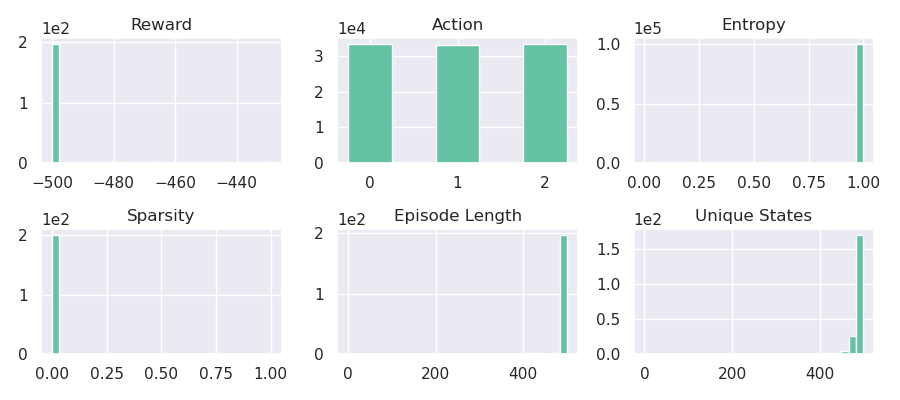
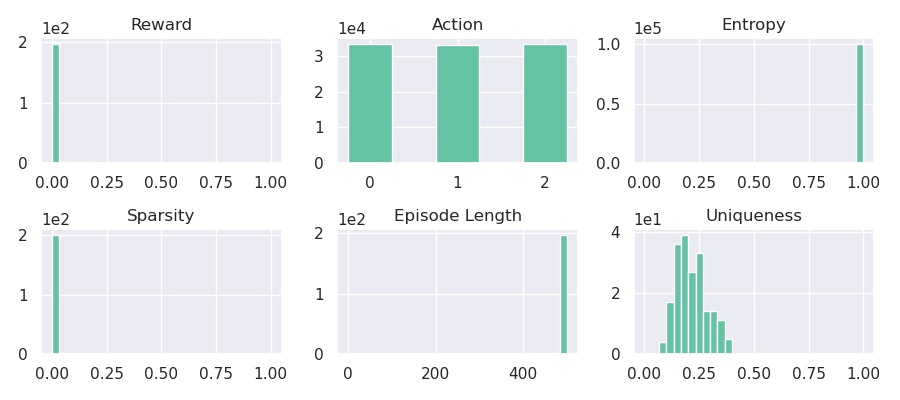
updated metrics

diff --git a/results/ds_eval/MiniGrid-SimpleCrossingS9N1-v0.tex b/results/ds_eval/MiniGrid-SimpleCrossingS9N1-v0.tex
@@ -1,14 +1,15 @@
 \begin{table}[h]
 \centering
 \begin{tabular}{l|ccc}
-Metric  \hspace{8pt} \symbol{92} \hspace{8pt} Buffer Type & Experience Replay & Fully Trained Behavioral & Random Policy \\ \hline 
+Metric  \hspace{8pt} \symbol{92} \hspace{8pt} Buffer Type & Experience Replay & Final Policy & Random Policy \\ \hline 
 Reward & $0.40 \pm 0.38$ & $0.14 \pm 0.34$ & $0.10 \pm 0.22$\\ 
-Reward (Normalized) & $0.40 \pm 0.38$ & $0.14 \pm 0.34$ & $0.10 \pm 0.22$\\ 
+Reward (Normalized) & $0.42 \pm 0.40$ & $0.14 \pm 0.35$ & $0.10 \pm 0.23$\\ 
 Entropy (Normalized) & $0.91 \pm 0.13$ & $0.01 \pm 0.04$ & $1.00 \pm 0.00$\\ 
 Episode Length & $201.19 \pm 122.09$ & $279.21 \pm 108.65$ & $295.75 \pm 66.33$\\ 
 Sparsity & $0.99 \pm 0.02$ & $0.99 \pm 0.02$ & $1.00 \pm 0.00$\\ 
-Unique States / Episode & $32.51 \pm 14.68$ & $8.82 \pm 4.67$ & $61.28 \pm 20.23$\\ 
-Unique States & $0.0151$ & $0.0025$ & $0.0175$\\ 
+Unique States / Episode & $19.13 \pm 6.93$ & $7.18 \pm 4.07$ & $29.40 \pm 9.84$\\ 
+Uniqueness & $0.20 \pm 0.21$ & $0.14 \pm 0.30$ & $0.11 \pm 0.06$\\ 
+Unique States & $0.00111$ & $0.00059$ & $0.00132$\\ 
 \end{tabular}
 \caption{Dataset evaluation metrics for all buffer types of environment 'MiniGrid-SimpleCrossingS9N1-v0'.}
 \label{tab:ds_eval_simple}

diff --git a/results/ds_eval/Acrobot-v1.tex b/results/ds_eval/Acrobot-v1.tex
@@ -1,14 +1,15 @@
 \begin{table}[h]
 \centering
 \begin{tabular}{l|ccc}
-Metric  \hspace{8pt} \symbol{92} \hspace{8pt} Buffer Type & Experience Replay & Fully Trained Behavioral & Random Policy \\ \hline 
+Metric  \hspace{8pt} \symbol{92} \hspace{8pt} Buffer Type & Experience Replay & Final Policy & Random Policy \\ \hline 
 Reward & $-93.17 \pm 35.83$ & $-81.84 \pm 14.10$ & $-499.37 \pm 5.73$\\ 
-Reward (Normalized) & $0.97 \pm 0.09$ & $1.00 \pm 0.03$ & $0.00 \pm 0.01$\\ 
+Reward (Normalized) & $0.96 \pm 0.08$ & $0.98 \pm 0.03$ & $0.00 \pm 0.01$\\ 
 Entropy (Normalized) & $0.51 \pm 0.26$ & $0.12 \pm 0.22$ & $1.00 \pm 0.00$\\ 
 Episode Length & $94.17 \pm 35.81$ & $82.84 \pm 14.10$ & $499.38 \pm 5.62$\\ 
 Sparsity & $0.01 \pm 0.00$ & $0.01 \pm 0.00$ & $0.00 \pm 0.00$\\ 
-Unique States / Episode & $93.32 \pm 31.61$ & $82.81 \pm 14.01$ & $490.81 \pm 8.88$\\ 
-Unique States & $0.4254$ & $0.1554$ & $0.6305$\\ 
+Unique States / Episode & $47.65 \pm 9.17$ & $46.17 \pm 7.15$ & $107.22 \pm 35.38$\\ 
+Uniqueness & $0.52 \pm 0.06$ & $0.56 \pm 0.05$ & $0.21 \pm 0.07$\\ 
+Unique States & $0.01025$ & $0.00405$ & $0.01035$\\ 
 \end{tabular}
 \caption{Dataset evaluation metrics for all buffer types of environment 'Acrobot-v1'.}
 \label{tab:ds_eval_acrobot}

diff --git a/results/ds_eval/MiniGrid-LavaGapS6-v0.tex b/results/ds_eval/MiniGrid-LavaGapS6-v0.tex
@@ -1,14 +1,15 @@
 \begin{table}[h]
 \centering
 \begin{tabular}{l|ccc}
-Metric  \hspace{8pt} \symbol{92} \hspace{8pt} Buffer Type & Experience Replay & Fully Trained Behavioral & Random Policy \\ \hline 
+Metric  \hspace{8pt} \symbol{92} \hspace{8pt} Buffer Type & Experience Replay & Final Policy & Random Policy \\ \hline 
 Reward & $0.63 \pm 0.41$ & $0.71 \pm 0.41$ & $0.04 \pm 0.16$\\ 
-Reward (Normalized) & $0.63 \pm 0.41$ & $0.71 \pm 0.41$ & $0.04 \pm 0.16$\\ 
+Reward (Normalized) & $0.67 \pm 0.43$ & $0.75 \pm 0.43$ & $0.04 \pm 0.17$\\ 
 Entropy (Normalized) & $0.86 \pm 0.13$ & $0.00 \pm 0.00$ & $1.00 \pm 0.00$\\ 
 Episode Length & $50.71 \pm 57.17$ & $41.95 \pm 58.87$ & $27.41 \pm 29.82$\\ 
 Sparsity & $0.93 \pm 0.06$ & $0.91 \pm 0.06$ & $1.00 \pm 0.01$\\ 
-Unique States / Episode & $11.13 \pm 5.01$ & $7.22 \pm 1.52$ & $10.12 \pm 7.88$\\ 
-Unique States & $0.0024$ & $0.0005$ & $0.0026$\\ 
+Unique States / Episode & $9.99 \pm 3.55$ & $7.13 \pm 1.52$ & $8.48 \pm 6.00$\\ 
+Uniqueness & $0.59 \pm 0.39$ & $0.75 \pm 0.41$ & $0.55 \pm 0.30$\\ 
+Unique States & $0.00055$ & $0.00028$ & $0.00057$\\ 
 \end{tabular}
 \caption{Dataset evaluation metrics for all buffer types of environment 'MiniGrid-LavaGapS6-v0'.}
 \label{tab:ds_eval_lava}

diff --git a/results/ds_eval/CartPole-v1.tex b/results/ds_eval/CartPole-v1.tex
@@ -1,14 +1,15 @@
 \begin{table}[h]
 \centering
 \begin{tabular}{l|ccc}
-Metric  \hspace{8pt} \symbol{92} \hspace{8pt} Buffer Type & Experience Replay & Fully Trained Behavioral & Random Policy \\ \hline 
+Metric  \hspace{8pt} \symbol{92} \hspace{8pt} Buffer Type & Experience Replay & Final Policy & Random Policy \\ \hline 
 Reward & $366.02 \pm 162.39$ & $295.53 \pm 12.39$ & $22.04 \pm 11.60$\\ 
 Reward (Normalized) & $0.73 \pm 0.32$ & $0.59 \pm 0.02$ & $0.04 \pm 0.02$\\ 
 Entropy (Normalized) & $0.77 \pm 0.24$ & $0.30 \pm 0.37$ & $1.00 \pm 0.00$\\ 
 Episode Length & $366.02 \pm 162.39$ & $295.53 \pm 12.39$ & $22.04 \pm 11.60$\\ 
 Sparsity & $0.00 \pm 0.00$ & $0.00 \pm 0.00$ & $0.00 \pm 0.00$\\ 
-Unique States / Episode & $185.17 \pm 89.92$ & $100.16 \pm 6.09$ & $15.70 \pm 10.53$\\ 
-Unique States & $0.1379$ & $0.029$ & $0.1667$\\ 
+Unique States / Episode & $26.93 \pm 13.34$ & $19.10 \pm 2.29$ & $5.54 \pm 3.19$\\ 
+Uniqueness & $0.09 \pm 0.06$ & $0.06 \pm 0.01$ & $0.25 \pm 0.06$\\ 
+Unique States & $0.00311$ & $0.00185$ & $0.00358$\\ 
 \end{tabular}
 \caption{Dataset evaluation metrics for all buffer types of environment 'CartPole-v1'.}
 \label{tab:ds_eval_cartpole}
